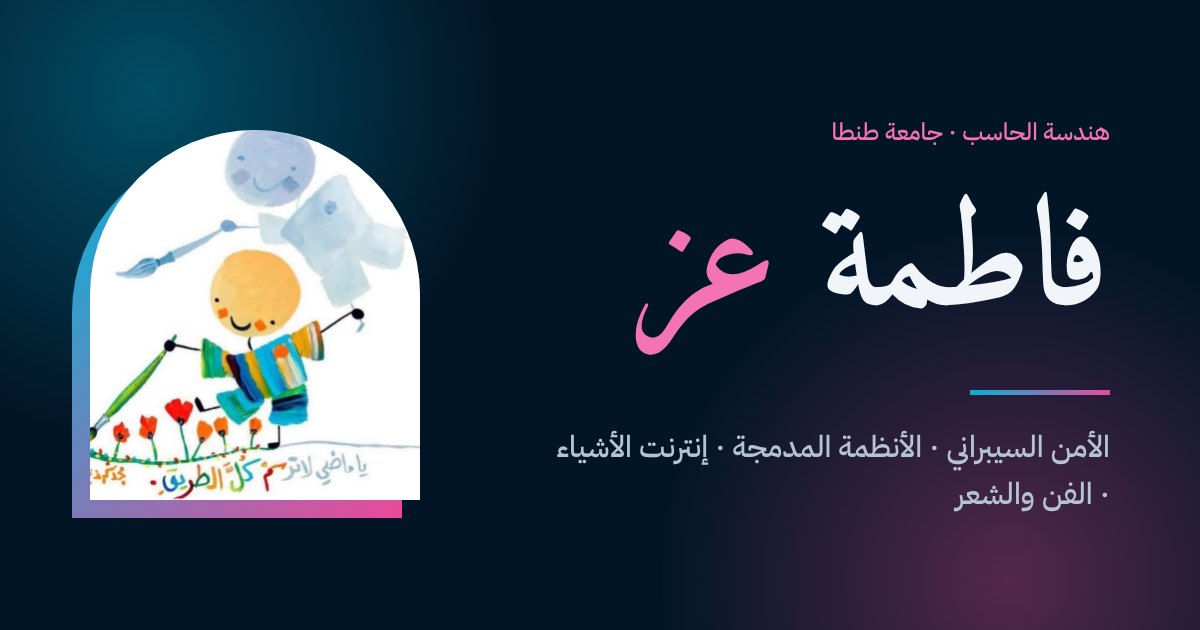
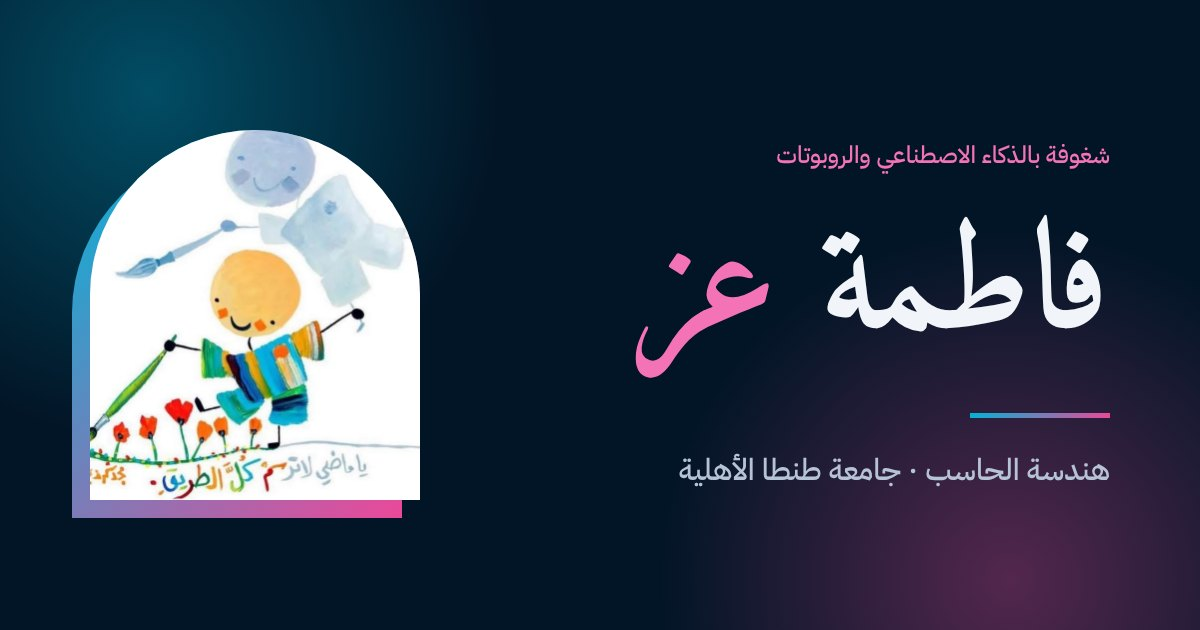
Update identity to AI & Robotics, TNU; add verified verses
- Hero/about/meta/OG/JSON-LD: "AI & Robotics Enthusiast | Computer Engineering TNU",
  Tanta National University (جامعة طنطا الأهلية)
- Interests: AI & Robotics first, plus cybersecurity, networking, embedded, IoT
- Poetry: 11 verses (Mutanabbi, Abu Firas, Buhturi, Baha' Zuhayr, Zuhayr ibn Abi Sulma),
  checked against aldiwan.net / diwanalarab.com / mawdoo3.com
- Poetry typography fixes (Amiri swap, sizes), Arabic page-head sizing

Claude-Session: https://claude.ai/code/session_015NLdHSQFFyJ3gaEkDPTsjn

diff --git a/src/css/pages.css b/src/css/pages.css
@@ -686,7 +686,7 @@
   display: grid;
   gap: var(--s-1) var(--s-7);
   font-family: var(--font-display);
-  font-size: var(--step-4);
+  font-size: var(--step-3);
   line-height: 1.9;
   color: var(--ink);
 }
@@ -694,7 +694,12 @@
 @media (min-width: 1100px) {
   .poem-text .hemistichs {
     grid-template-columns: 1fr 1fr;
+    column-gap: var(--s-6);
   }
+}
+
+.poem-text blockquote {
+  margin: 0;
 }
 
 .poem-text .rendering {
@@ -861,4 +866,9 @@
   .hero-traces {
     opacity: calc(var(--trace-opacity) * 0.45);
   }
+}
+
+:lang(ar) .page-head h1 {
+  max-inline-size: 22ch;
+  font-size: var(--step-4);
 }
